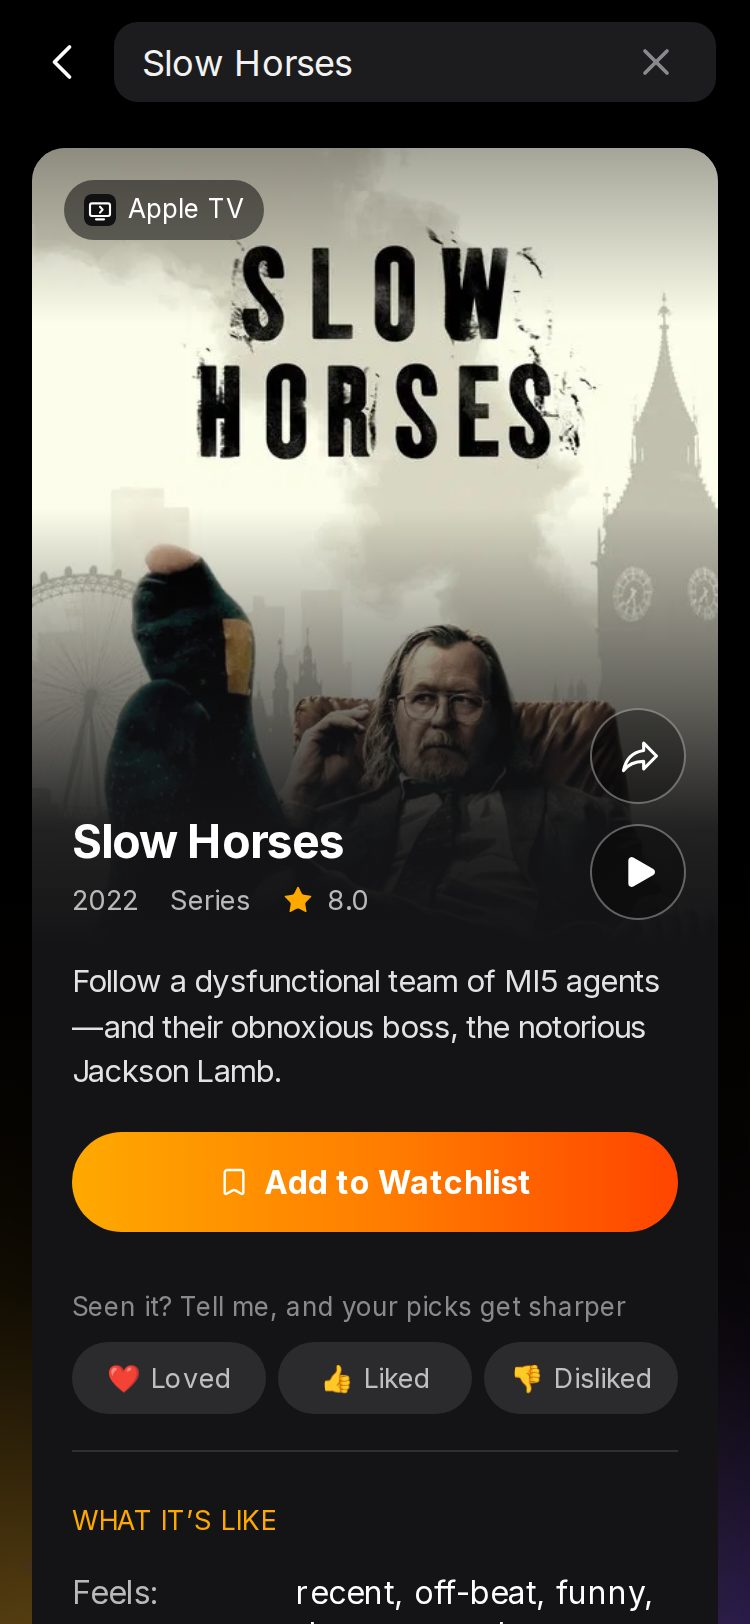
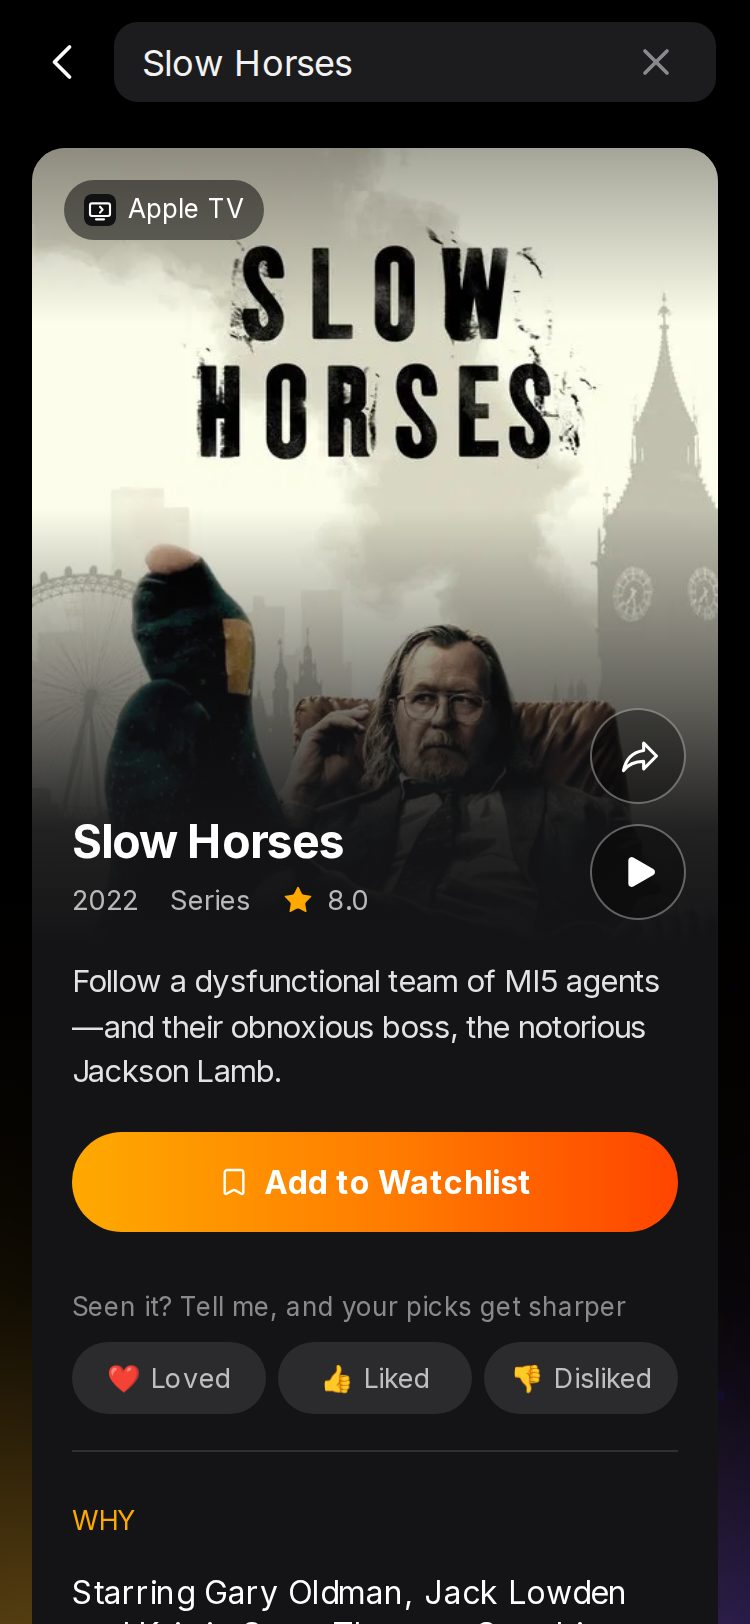
Card page: drop only the plot the line already says from the Why
Review on #429: hiding the whole Why lost what it adds after the plot
(Slow Horses: the cast and "it's funnier than you usually go for").

Changed region(s): [[0.3987, 0.9544, 0.7973, 1.0], [0.092, 0.9236, 0.368, 1.0], [0.828, 0.9852, 0.8587, 1.0]]

diff --git a/tests/component/card-page-overview-once.test.tsx b/tests/component/card-page-overview-once.test.tsx
@@ -4,20 +4,22 @@ import { WhyPanel } from '@/app/components/RecCard'
 import type { RecommendationResult } from '@/types/dna'
 
 vi.mock('next/navigation', () => ({ useRouter: () => ({ push: vi.fn(), back: vi.fn() }), usePathname: () => '/' }))
-const { sameText } = await import('@/modules/session/recommendations/RecommendationsView')
+const { sameText, whyBeyondLine } = await import('@/modules/session/recommendations/RecommendationsView')
 
 // Eran on #403: a title with no personal reason showed its plot both under the
-// title and under WHY (Slow Horses). On the card page it shows once.
+// title and under WHY (Slow Horses). On the card page the plot shows once, and
+// what the Why adds after it stays. The texts are Slow Horses' real ones (2026-11-23).
 
 const PLOT = "Follow a dysfunctional team of MI5 agents—and their obnoxious boss, the notorious Jackson Lamb—as they navigate the espionage world's smoke and mirrors to defend England from sinister forces."
+const LINE = 'Follow a dysfunctional team of MI5 agents—and their obnoxious boss, the notorious Jackson Lamb.'
+const EXTRA = "Starring Gary Oldman, Jack Lowden and Kristin Scott Thomas. One thing to know: it's funnier than you usually go for."
 
 describe('sameText', () => {
   it('matches the same plot, whatever the emphasis or spacing', () => {
     expect(sameText(`*${PLOT}*`, `  ${PLOT}`)).toBe(true)
   })
-  it('matches when one holds the other whole, not a changed line', () => {
-    expect(sameText(PLOT.split('—')[0] + ' and more', PLOT)).toBe(false)
-    expect(sameText(PLOT, `${PLOT} It's a hit with people like you.`)).toBe(true)
+  it('matches the line cut from the plot', () => {
+    expect(sameText(PLOT, LINE)).toBe(true)
   })
   it('a different, personal why is not the same', () => {
     expect(sameText('You loved Tinker Tailor Soldier Spy: this is its scruffier cousin.', PLOT)).toBe(false)
@@ -28,6 +30,23 @@ describe('sameText', () => {
   it('nothing to compare is not a repeat', () => {
     expect(sameText(null, PLOT)).toBe(false)
     expect(sameText(PLOT, '')).toBe(false)
+  })
+})
+
+describe('whyBeyondLine', () => {
+  it('drops the plot the line already says and keeps what the Why adds', () => {
+    expect(whyBeyondLine(`${PLOT} ${EXTRA}`, LINE)).toBe(EXTRA)
+  })
+  it('a Why that is only the plot leaves nothing', () => {
+    expect(whyBeyondLine(PLOT, LINE)).toBeNull()
+    expect(whyBeyondLine('', LINE)).toBeNull()
+  })
+  it('a personal Why stays whole', () => {
+    const why = 'You loved *Tinker Tailor Soldier Spy*. This is its scruffier cousin.'
+    expect(whyBeyondLine(why, LINE)).toBe(why)
+  })
+  it('no line: the Why stays whole', () => {
+    expect(whyBeyondLine(`${PLOT} ${EXTRA}`, '')).toBe(`${PLOT} ${EXTRA}`)
   })
 })
 

diff --git a/src/modules/session/recommendations/RecommendationsView.tsx b/src/modules/session/recommendations/RecommendationsView.tsx
@@ -2744,16 +2744,22 @@ export function TitleCardPage({
   );
 }
 
-/**
- * Whether the Why says what the line under the title already says (a title
- * with no personal reason shows its plot in both): then it's shown once (Eran, #403).
- * Compared as words only, so emphasis marks and spacing don't count.
- */
+/** Whether two texts say the same thing: the same words, or one holds the other whole (40+ letters). Marks and spacing don't count. */
 export function sameText(a: string | null | undefined, b: string | null | undefined): boolean {
   const norm = (s: string) => s.toLowerCase().replace(/[^\p{L}\p{N}]+/gu, " ").trim();
   if (!a || !b) return false;
   const [x, y] = [norm(a), norm(b)];
   return x.length > 0 && (x === y || (Math.min(x.length, y.length) >= 40 && (x.includes(y) || y.includes(x))));
+}
+
+/**
+ * The Why minus the sentences the line under the title already says: a title
+ * with no personal reason opens its Why with the same plot (Slow Horses; Eran,
+ * #403), so the plot shows once and what the Why adds stays. Null when nothing is left.
+ */
+export function whyBeyondLine(why: string, line: string | null | undefined): string | null {
+  const kept = why.split(/(?<=[.!?]["”*]?)\s+/).filter((s) => s.trim() && !sameText(s, line));
+  return kept.length > 0 ? kept.join(" ") : null;
 }
 
 /**
@@ -2805,10 +2811,16 @@ function InlineWhy({
   let body: ReactNode = null;
   if (data && data !== "loading") {
     const result = toResult(data, rec);
-    const shownWhy = why === "pending" || why === "failed" ? null : (why ?? result.explanation);
-    body = <WhyPanel result={result} why={why} omitWhy={sameText(shownWhy, rec.reason)} />;
+    if (why === "pending" || why === "failed") body = <WhyPanel result={result} why={why} />;
+    else {
+      const rest = whyBeyondLine(why ?? result.explanation, rec.reason);
+      body = <WhyPanel result={result} why={rest} omitWhy={rest === null} />;
+    }
   } else if (data === "loading" || why === "pending") body = <WhyTextOnly text="" pending />;
-  else if (typeof why === "string" && why !== "failed" && !sameText(why, rec.reason)) body = <WhyTextOnly text={why} />;
+  else if (typeof why === "string" && why !== "failed") {
+    const rest = whyBeyondLine(why, rec.reason);
+    if (rest) body = <WhyTextOnly text={rest} />;
+  }
   if (!body) return null;
   return (
     <div ref={innerRef} className={styles.cardWhy}>

diff --git a/docs/INTEGRATION.md b/docs/INTEGRATION.md
@@ -36,7 +36,7 @@ Spec `docs/plan/v3/PLAN.md`; status in GitHub Issues (label `v3`) and on the [WT
 - **#406 · Seen never shows "Untitled" (Shahar, 2026-11-22).** The feedback route fills a missing name from `titles` before it writes the `recommendation_feedback` row (a caller can omit `title`), and `GET /api/recommendations/ratings` names older rows and hidden titles from `titles.title` when they have none. Seen leaves out a title it still can't name (`SEEN_V3`). The only nameless rows in production were 11 seeded straight into the e2e test account on 2026-11-19; they now read Breaking Bad, The Shawshank Redemption, Inception and the rest.
 - **S3 · The card page from Seen, and clearing a rating (#361, Shahar, 2026-11-21), behind `SEEN_V3`.** A tap on a rated row (poster or title; not on its icons) opens the same card page Search opens (`SearchCard`, fed by `/api/search/title`): your reaction lit, "Saved to Seen", Add to Watchlist, no Hide; the header has Back and Search only. Opening adds a history entry, so the phone's Back returns to Seen, and the list stays mounted under the card, so it keeps its place. Tap the lit reaction to clear it; back on Seen the row has folded into "Rating cleared. **‹title›** is out of Seen, and your taste forgets it." with Undo (5 s), and the counts drop. Seen follows every rating that lands anywhere (`RATED_EVENT`; the row icons now announce theirs through `announceRated` in `rate.ts`). "Saved to Ratings" reads "Saved to Seen" on every card under `SEEN_V3` (flag off: unchanged). The type and sort pills now fit their word ("All ⌄"): the select lies over the pill, unseen (Eran on #400). Hidden rows and legacy rows with no type open nothing (S4 is Restore).
 - **Q3 · Recent searches fill the empty box (#366, Shahar, 2026-11-19), behind `SEARCH_V3`.** With nothing typed, Search shows "Recent searches" (the last 6, newest first, kept as typed) and a yellow Clear, in Search's own list box with a clock on each row. A search joins the list when a result or a person is opened, or the keyboard's search key is pressed; tapping one searches it again. Kept on this phone only (`localStorage`, `src/app/search/recent.ts`), never sent to us; storage off means no list. None yet: the box alone, as today. Flag off: today's Search.
-- **Q1 · Every title in Search opens the card page (#364, Shahar, 2026-11-19), behind `SEARCH_V3` (now read by the client too, so a change needs a redeploy).** A title tapped in Search opens `TitleCardPage` (exported from `RecommendationsView`; the Watchlist's card page is now a thin use of it) through `src/app/search/SearchCard.tsx`: Add to Watchlist / Remove, the star when saved, Seen it? lit from your Seen list (read once a page load), today's breakdown (M1/M2's `InlineWhy`), the fact-built why line (why-lines, else the synopsis), Israel's service, share, trailer. A rating goes through the same route as everywhere (`src/modules/session/recommendations/rate.ts`, now shared with the feed): it lands in Seen and the DNA. "In your ratings" → "In Seen". Flag off: today's card. Not here: the ring (Q5), a save teaching taste (Q6), "Saved to Seen" (S3). **Follow-up (Eran on #403, 2026-11-23):** on the card page the line under the title is shown whole (no 4-line cut: Shtisel's overview was clipped mid-word), and when the Why says what that line already says (a title with no personal reason, like Slow Horses) the Why is left out, so the plot shows once (`sameText` in `RecommendationsView.tsx`, `WhyPanel`'s `omitWhy`). For you's feed cards keep their 4-line teaser.
+- **Q1 · Every title in Search opens the card page (#364, Shahar, 2026-11-19), behind `SEARCH_V3` (now read by the client too, so a change needs a redeploy).** A title tapped in Search opens `TitleCardPage` (exported from `RecommendationsView`; the Watchlist's card page is now a thin use of it) through `src/app/search/SearchCard.tsx`: Add to Watchlist / Remove, the star when saved, Seen it? lit from your Seen list (read once a page load), today's breakdown (M1/M2's `InlineWhy`), the fact-built why line (why-lines, else the synopsis), Israel's service, share, trailer. A rating goes through the same route as everywhere (`src/modules/session/recommendations/rate.ts`, now shared with the feed): it lands in Seen and the DNA. "In your ratings" → "In Seen". Flag off: today's card. Not here: the ring (Q5), a save teaching taste (Q6), "Saved to Seen" (S3). **Follow-up (Eran on #403, 2026-11-23):** on the card page the line under the title is shown whole (no 4-line cut: Shtisel's overview was clipped mid-word), and the Why drops the sentences that line already says (a title with no personal reason, like Slow Horses, opens its Why with the same plot), so the plot shows once and what the Why adds stays; a Why with nothing left is left out (`whyBeyondLine` in `RecommendationsView.tsx`, `WhyPanel`'s `omitWhy`). For you's feed cards keep their 4-line teaser.
 - **Q2 · Each result shows where it stands with you (#365, Shahar, 2026-11-21), behind `SEARCH_V3`.** Each title row in Search (results, your own groups, a person's titles) carries one mark after the year, in white: your rating (❤ Loved · 👍 Liked · 👎 Disliked) first, else "In your Watchlist", else "Hidden from For you" (`markFor` in `SearchView`). Marks come from Seen's list (`myRatings()` in `SearchCard.tsx`, which now also returns hidden titles) and follow every rating as it lands (`RATED_EVENT`) and every hide or restore (`HIDDEN_EVENT`, fired by For you's Remove and Seen's Restore; a rating outranks hidden). A hidden title lights no chip on the card. Flag off: no marks.
 - **Q7 · Your match on Search's results and every Watchlist row (#392, Shahar, 2026-11-19).** `scoreMatches` (`src/modules/engine/score-one.ts`, A2's module, Alon reviews) scores several titles in one step 2 against their saved pools: the match alone, the same number M1 gives each (checked live on the e2e account: 10 of 10 equal; a title outside the catalogue is left out). `POST /api/recommendations/score` `{ titles }` → `{ matches }`, up to 60 a call, about 0.5 s for 11. The Watchlist's rows ask once a visit for their unseen titles and show today's match, else the saved one (no flag, like M2); the card page's ring follows its row. Behind `SEARCH_V3`, Search's title rows (results, your own titles, a person's titles) show "· 87% match" in the row's gold on the year line. **Found:** 7 of the 15 unseen rows on Shahar's Watchlist and 62 of 148 on everyone else's had no saved match (saved from Search or the games). Not here: the ring and breakdown on Search's card page (Q5).
 - **L1 · The JustWatch credit comes back (#372, Alon, 2026-11-19, #396), no flag (a licence requirement).** One quiet line, "Where to watch: JustWatch" (`src/app/components/JustWatchCredit.tsx`), Eran's choice B: at the end of For you and of the Watchlist, and under the card on the card page and Search's card, only where a service is shown. Found and fixed on the way: the end of both lists sat under the tab bar (`.sentinel` shrank as a flex item), and Search showed the US service for your own titles (`withIsraelService`, DEC-11). Open for Eran: the share page `/t/…` and the games' watchlist also show a service without the credit.
